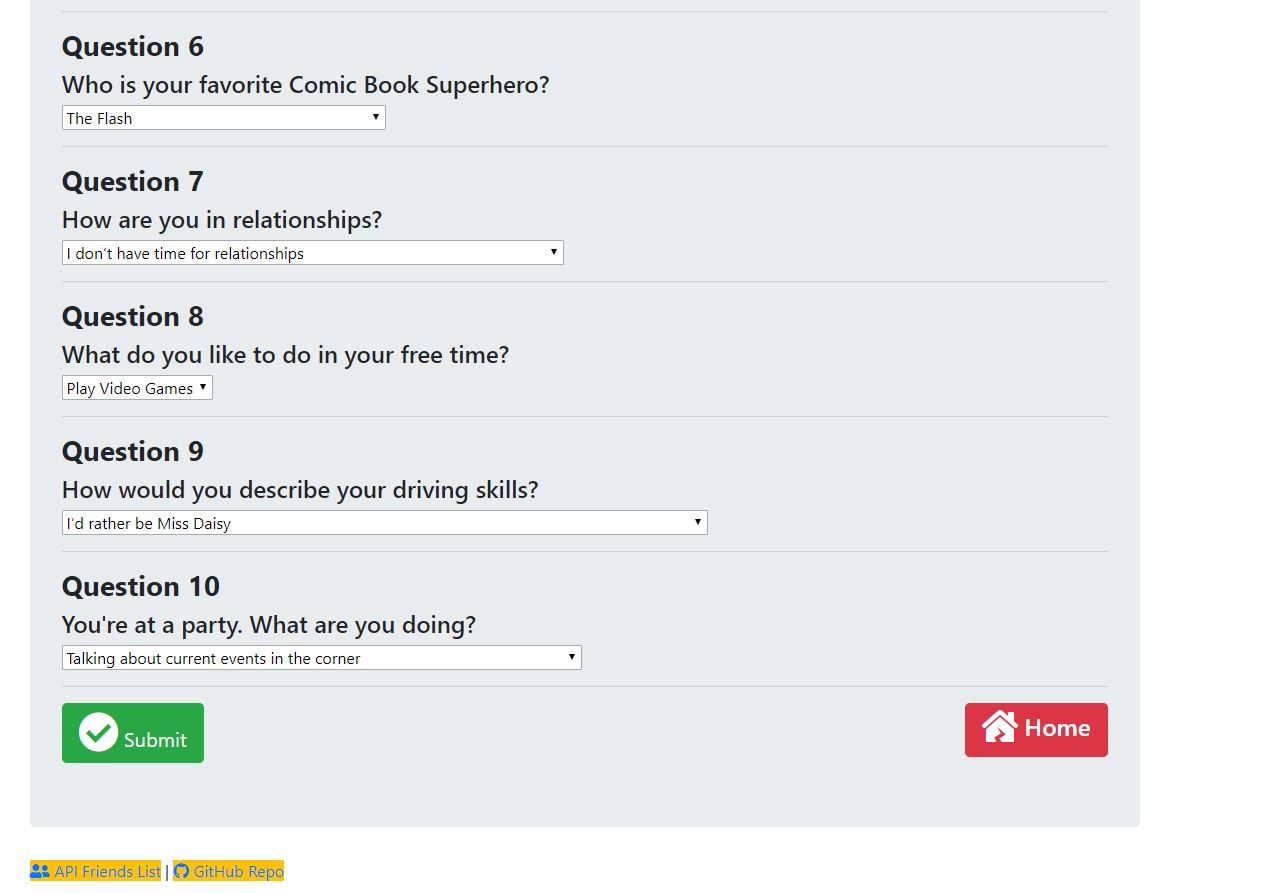
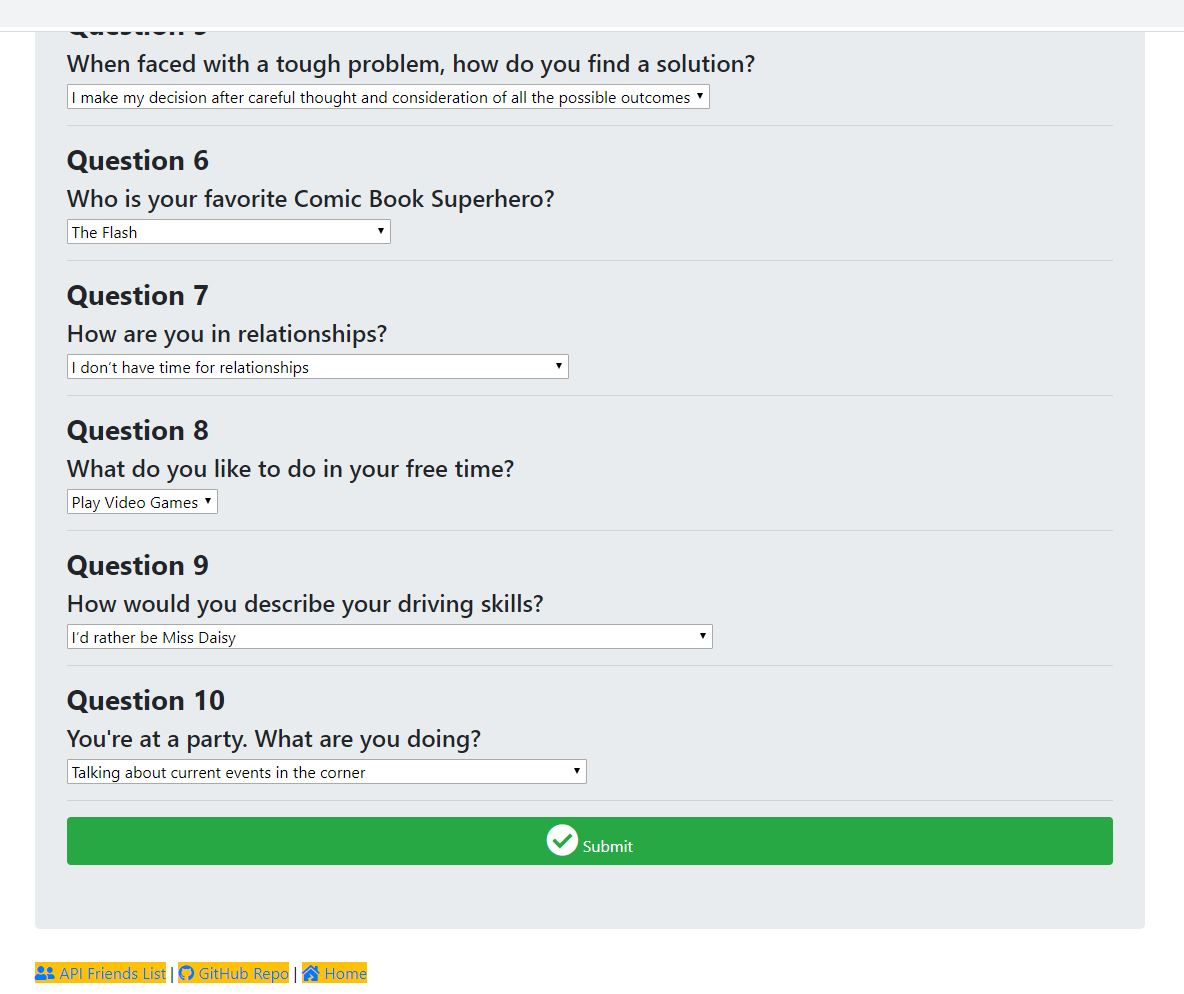
updated the submit button on the survey.  New screenshots for the README

Changed region(s): [[0.0312, 0.0302, 0.625, 0.6652], [0.0312, 0.6954, 0.9688, 0.8768], [0.0, 0.9373, 0.3125, 0.9978]]

diff --git a/app/public/survey.html b/app/public/survey.html
@@ -226,9 +226,7 @@
 
                 <hr>
 
-                <button type="submit" class="btn btn-lg btn-success button-space" id="submit_btn"><i class="fas fa-check-circle fa-2x"></i>  Submit</button>
-
-                <a href="/"><button type="button" class="btn btn-lg btn-danger button-space" style="float: right"><h4><i class="fas fa-house-damage fa-lg"></i>  Home</h4></button></a>
+                <button type="submit" class="btn btn-block btn-success button-space" id="submit_btn"><i class="fas fa-check-circle fa-2x"></i>  Submit</button>
 
             </div>
 
@@ -246,6 +244,14 @@
                 <a href="https://github.com/Tim-Shaffer/FriendFinder" title="View on GitHub" target="blank">
                     
                     <span class="text-primary bg-warning"><i class="fab fa-github"></i> GitHub Repo</span>
+                
+                </a>
+
+                |
+                
+                <a href="/" title="Home">
+                    
+                    <span class="text-primary bg-warning"><i class="fas fa-house-damage"></i> Home</span>
                 
                 </a>
                 
